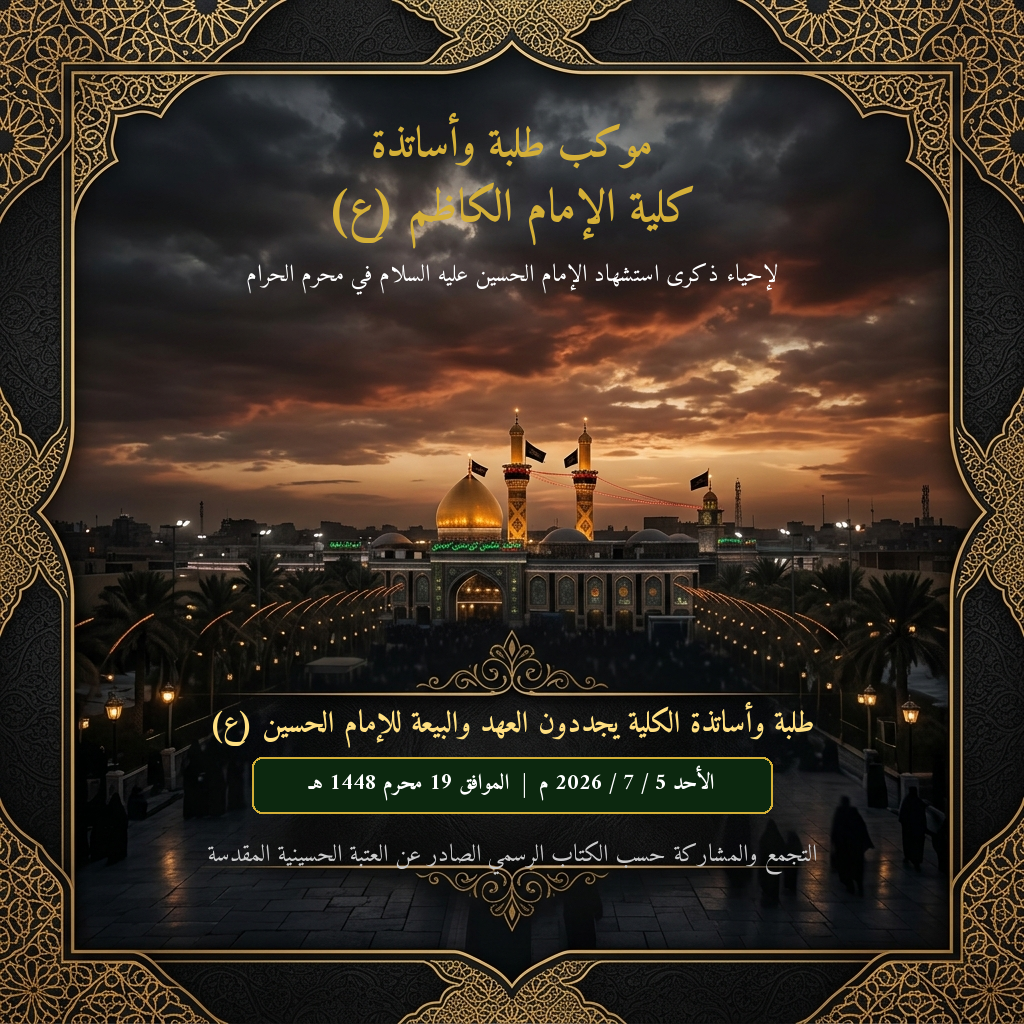
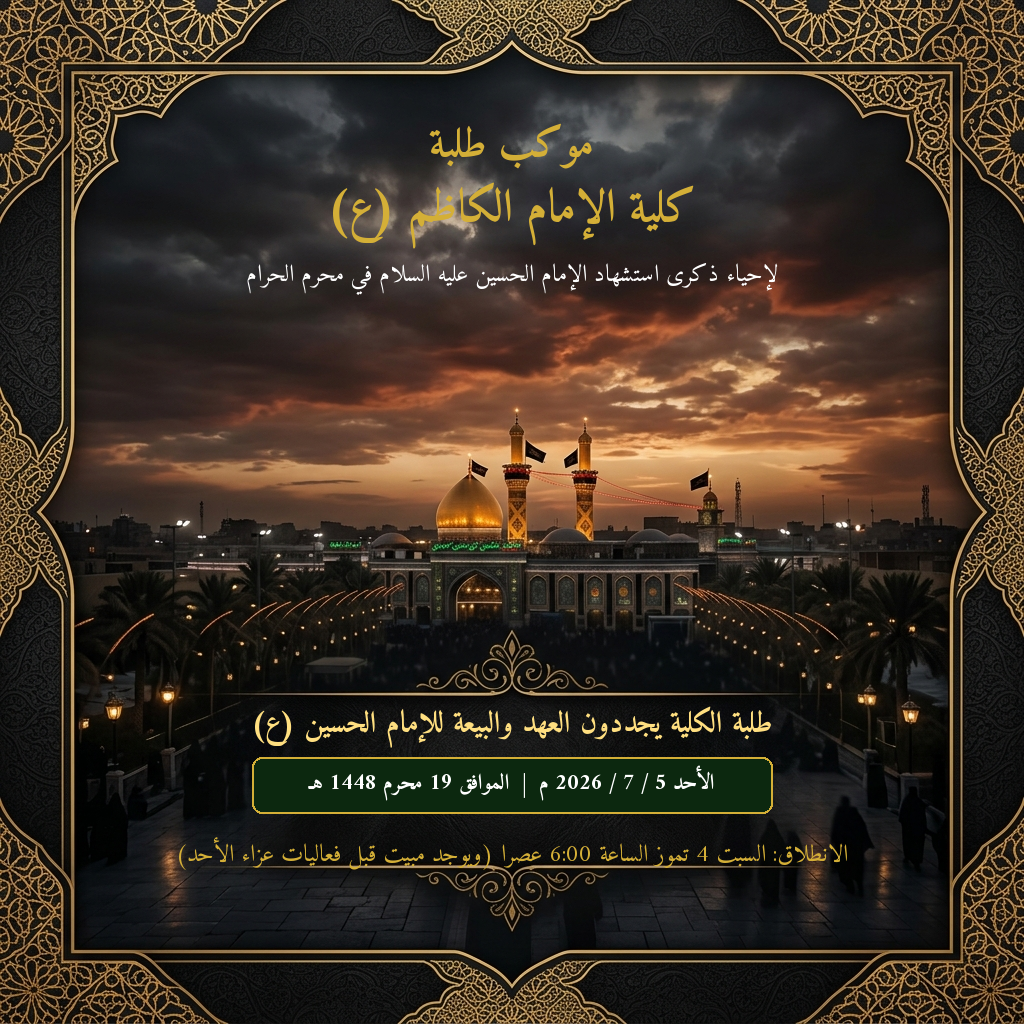
تعديل: إضافة تفاصيل وقت انطلاق التجمع وتوفير المبيت في الإعلان والاستمارة والصورة

Changed region(s): [[0.1875, 0.6875, 0.8125, 0.75], [0.1875, 0.8125, 0.8438, 0.8438], [0.3438, 0.125, 0.625, 0.1562]]

diff --git a/index.html b/index.html
@@ -43,8 +43,8 @@
                     <div class="detail-item">
                         <i class="fa-solid fa-calendar-days"></i>
                         <div>
-                            <h3>تاريخ التجمع والانطلاق</h3>
-                            <p>السبت 4 تموز 2026م</p>
+                            <h3>التجمع والانطلاق</h3>
+                            <p>السبت 4 تموز (الساعة 6:00 عصراً)</p>
                         </div>
                     </div>
                     <div class="detail-item">
@@ -59,6 +59,13 @@
                         <div>
                             <h3>الوجهة والفعالية</h3>
                             <p>كربلاء المقدسة (الأحد 5/7)</p>
+                        </div>
+                    </div>
+                    <div class="detail-item">
+                        <i class="fa-solid fa-bed"></i>
+                        <div>
+                            <h3>الإقامة والمبيت</h3>
+                            <p>يتوفر مبيت ليلة السبت في كربلاء</p>
                         </div>
                     </div>
                     <div class="detail-item">

diff --git a/announcement_text.md b/announcement_text.md
@@ -12,7 +12,7 @@
 
 تعلن كليتنا عن فتح باب التسجيل لطلبتنا الأعزاء للمشاركة في **(موكب طلبة الجامعات العراقية)** لإحياء ذكرى استشهاد سبط الرسول وثمرة فؤاد البتول، أبي الأحرار الإمام الحسين (عليه السلام) في كربلاء المقدسة.
 
-🗓 **موعد التجمع والانطلاق:** السبت الموافق 2026/7/4م (قبل يوم الفعالية).
+🗓 **موعد التجمع والانطلاق:** السبت الموافق 2026/7/4م الساعة 6:00 عصراً.
 📍 **مكان التجمع:** قرب بوابة دخول الكلية الرئيسية.
 🗓 **تاريخ الفعالية في كربلاء:** الأحد الموافق 2026/7/5م.
 
@@ -22,7 +22,8 @@
 1. **العدد المتاح للطلبة:** الحد الأقصى للمقاعد الأساسية للطلبة هو **(100 طالب)** فقط بناءً على الكتاب الرسمي الصادر عن العتبة المقدسة.
 2. **قائمة الاحتياط:** في حال اكتمال العدد الأساسي، سيستمر التسجيل ويتم إدراج الأسماء تلقائياً في (قائمة الاحتياط) للتواصل معهم في حال حدوث شواغر.
 3. **الزي الموحد:** الالتزام التام بارتداء **القميص الأسود** باعتباره الزي الرسمي المعتمد لموكب عزاء الطلبة.
-4. **رقم التنسيق الرسمي:** للمزيد من الاستفسارات، يرجى التواصل مع مخول الكلية للتنسيق الرسمي:
+4. **السكن والمبيت:** يتوفر مبيت مخصص للطلبة المشاركين في كربلاء المقدسة ليلة السبت قبل انطلاق فعاليات العزاء يوم الأحد.
+5. **رقم التنسيق الرسمي:** للمزيد من الاستفسارات، يرجى التواصل مع مخول الكلية للتنسيق الرسمي:
    👤 **الأستاذ محمد رضا عبد الهادي**
    📞 **هاتف:** 07860800431
 
